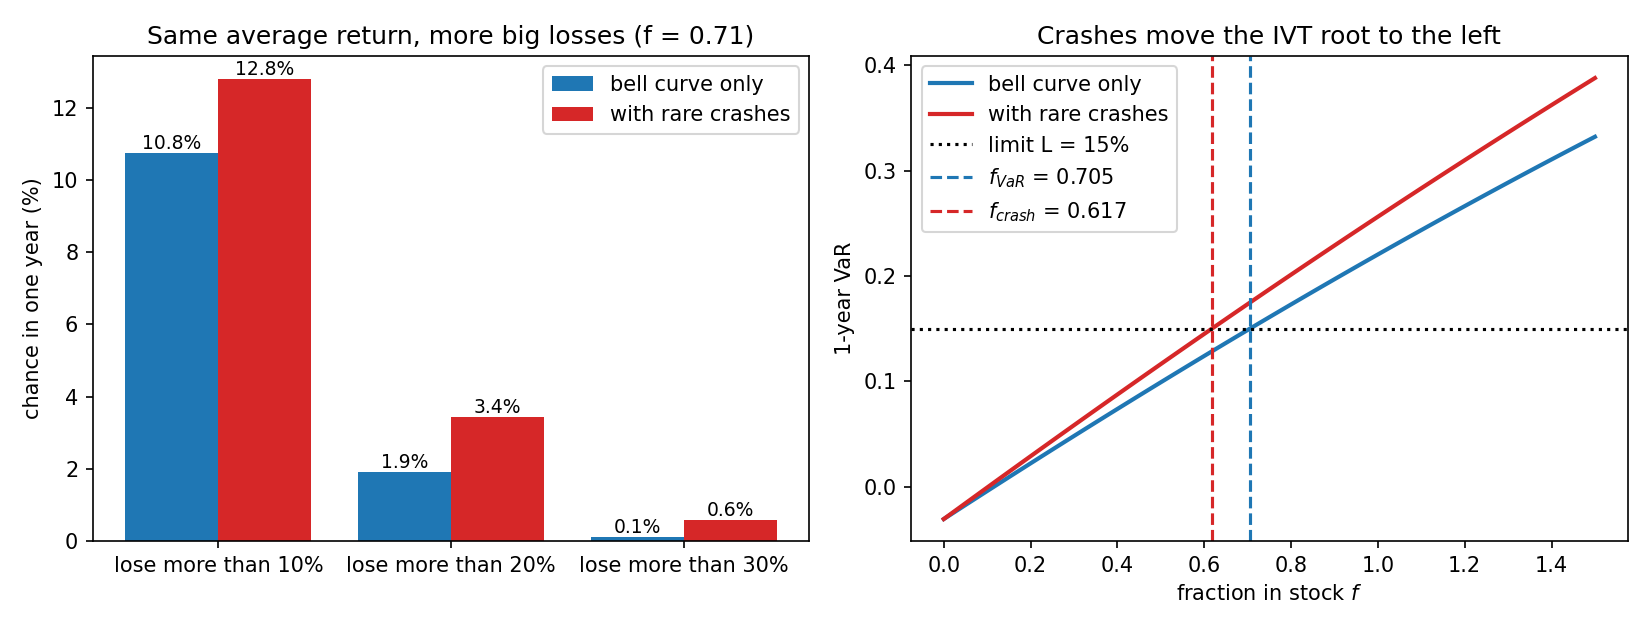
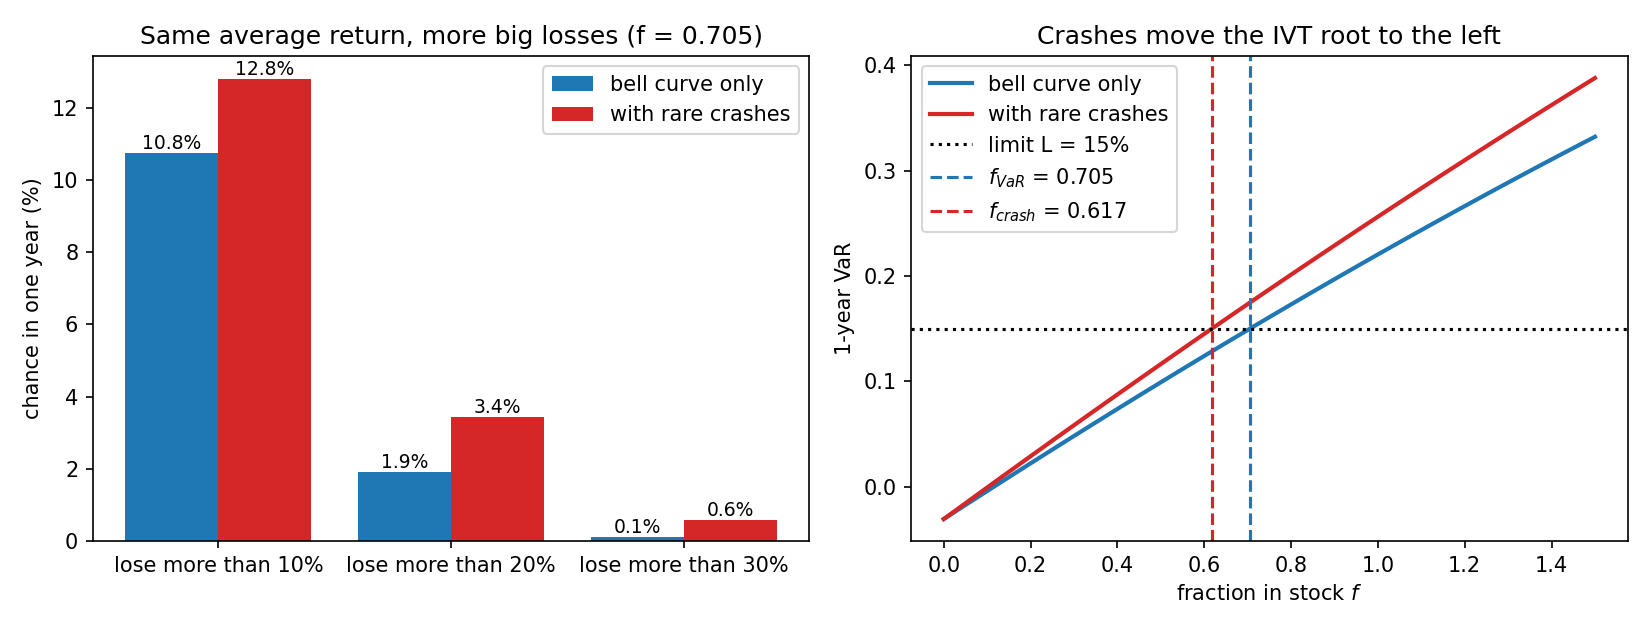
Figures: f_opt with three decimals, as in the text
The figures said 0.71 and 71% where the README says 0.705 and 70.5%.
main.py and main.m now print 3 decimals, the bars of fig6 show 70.5% and
29.5%, and fig4 to fig6 are regenerated.

Changed region(s): [[0.0927, 0.0302, 0.4636, 0.0905]]

diff --git a/main.py b/main.py
@@ -192,7 +192,7 @@ def module4_risk():
     ax = axes[0, 0]
     ax.plot(f_grid, g(f_grid), lw=2)
     ax.axvline(f_star, color="C3", ls="--", label=f"Kelly $f^*$ = {f_star:.2f}")
-    ax.axvline(f_opt, color="C2", ls="-", label=f"chosen $f_{{opt}}$ = {f_opt:.2f}")
+    ax.axvline(f_opt, color="C2", ls="-", label=f"chosen $f_{{opt}}$ = {f_opt:.3f}")
     ax.set(xlabel="fraction in stock $f$", ylabel="growth rate $g(f)$", title="Growth: continuous, concave, max at $f^*$")
     ax.legend()
 
@@ -222,7 +222,7 @@ def module4_risk():
     ax.axvline(LOSS_LIMIT, color="k", ls=":", label=f"analytic VaR = {LOSS_LIMIT:.1%}")
     ax.axvline(empirical_var(W[:, -1], 1.0, ALPHA), color="C3", ls="--",
                label=f"simulated VaR = {empirical_var(W[:, -1], 1.0, ALPHA):.1%}")
-    ax.set(xlabel="1-year loss (negative = gain)", ylabel="density", title=f"Loss distribution at $f_{{opt}}$ = {f_opt:.2f}")
+    ax.set(xlabel="1-year loss (negative = gain)", ylabel="density", title=f"Loss distribution at $f_{{opt}}$ = {f_opt:.3f}")
     ax.legend()
     save(fig, "fig4_risk_optimization.png")
 
@@ -281,7 +281,7 @@ def module4b_crashes():
         bars = ax.bar(pos + shift, np.array(p) * 100, width=0.4, color=color, label=name)
         ax.bar_label(bars, labels=[f"{v:.1%}" for v in p], fontsize=9)
     ax.set_xticks(pos, [f"lose more than {l:.0%}" for l in losses])
-    ax.set(ylabel="chance in one year (%)", title=f"Same average return, more big losses (f = {f_var:.2f})")
+    ax.set(ylabel="chance in one year (%)", title=f"Same average return, more big losses (f = {f_var:.3f})")
     ax.legend()
 
     ax = axes[1]
@@ -351,7 +351,7 @@ def module5_portfolio():
         for i, part in enumerate(list(wk) + [1 - wk.sum()]):
             ax.barh(k, part * 100, left=left, color=colors[i], label=(ASSET_NAMES + ["bank"])[i] if k == 1 else None)
             if part >= 0.06:
-                ax.text(left + part * 50, k, f"{part:.0%}", ha="center", va="center", color="white", fontsize=10)
+                ax.text(left + part * 50, k, f"{round(100 * part, 1):g}%", ha="center", va="center", color="white", fontsize=10)
             left += part * 100
         gk = portfolio_growth(wk, MU_ASSETS, SIGMA_ASSETS, RHO_ASSETS, R)[0]
         ax.text(101, k, f"growth {gk:.2%}", va="center", fontsize=10)

diff --git a/matlab/main.m b/matlab/main.m
@@ -183,7 +183,7 @@ plot(f_grid, g(f_grid), 'LineWidth', 2); hold on;
 xline(f_star, '--', 'Color', RED);
 xline(f_opt, '-', 'Color', GREEN);
 xlabel('fraction in stock f'); ylabel('growth rate g(f)'); title('Growth: continuous, concave, max at f^*');
-legend('g(f)', sprintf('Kelly f^* = %.2f', f_star), sprintf('chosen f_{opt} = %.2f', f_opt), 'Location', 'south');
+legend('g(f)', sprintf('Kelly f^* = %.2f', f_star), sprintf('chosen f_{opt} = %.3f', f_opt), 'Location', 'south');
 
 subplot(2, 2, 2);
 var_grid = value_at_risk(f_grid, MU, SIGMA, R, T, ALPHA);
@@ -220,7 +220,7 @@ histogram(loss, 80, 'Normalization', 'pdf'); hold on;
 xline(LOSS_LIMIT, 'k:', 'LineWidth', 1.5);
 xline(sim_var, '--', 'Color', RED, 'LineWidth', 1.5);
 xlabel('1-year loss (negative = gain)'); ylabel('density');
-title(sprintf('Loss distribution at f_{opt} = %.2f', f_opt));
+title(sprintf('Loss distribution at f_{opt} = %.3f', f_opt));
 legend('simulated losses', sprintf('analytic VaR = %.1f%%', 100 * LOSS_LIMIT), ...
     sprintf('simulated VaR = %.1f%%', 100 * sim_var), 'Location', 'northwest');
 save_fig(fig, fig_dir, 'fig4_risk_optimization.png');
@@ -283,7 +283,7 @@ b = bar(100 * [p_bell; p_crash]');
 b(1).FaceColor = [0.12 0.47 0.71]; b(2).FaceColor = RED;
 set(gca, 'XTickLabel', arrayfun(@(l) sprintf('lose more than %.0f%%', 100 * l), losses, 'UniformOutput', false));
 ylabel('chance in one year (%)');
-title(sprintf('Same average return, more big losses (f = %.2f)', f_var));
+title(sprintf('Same average return, more big losses (f = %.3f)', f_var));
 legend('bell curve only', 'with rare crashes');
 
 subplot(1, 2, 2);
